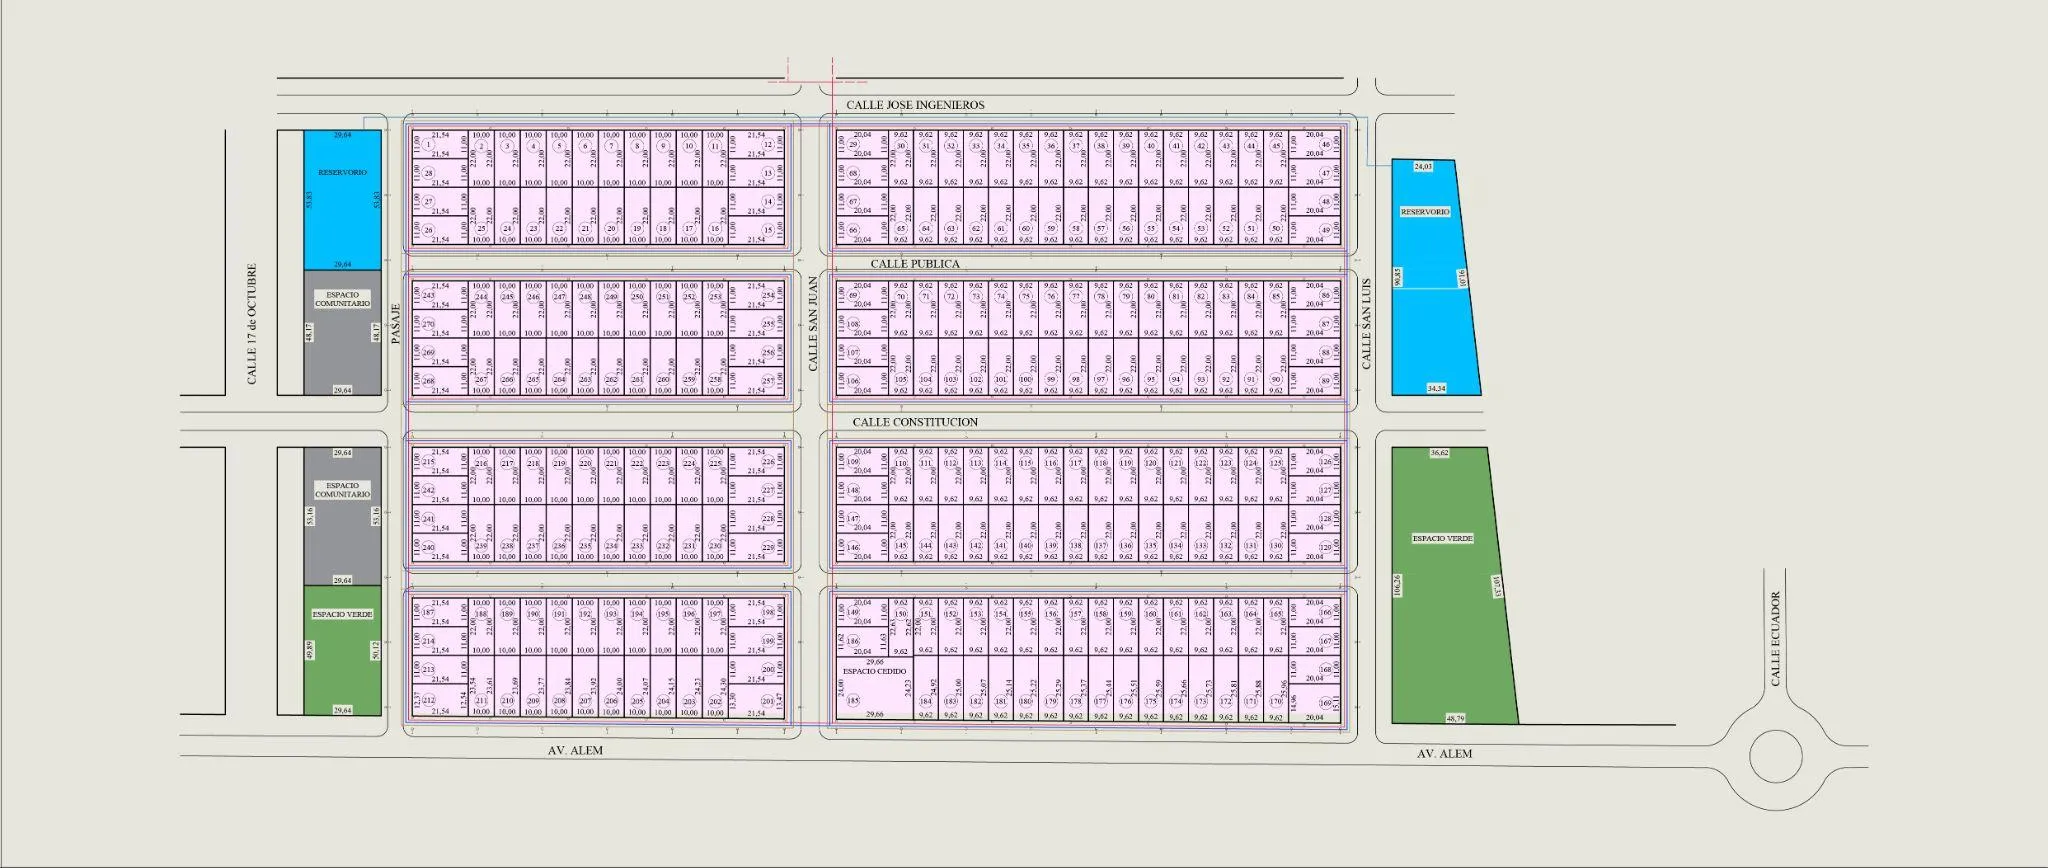
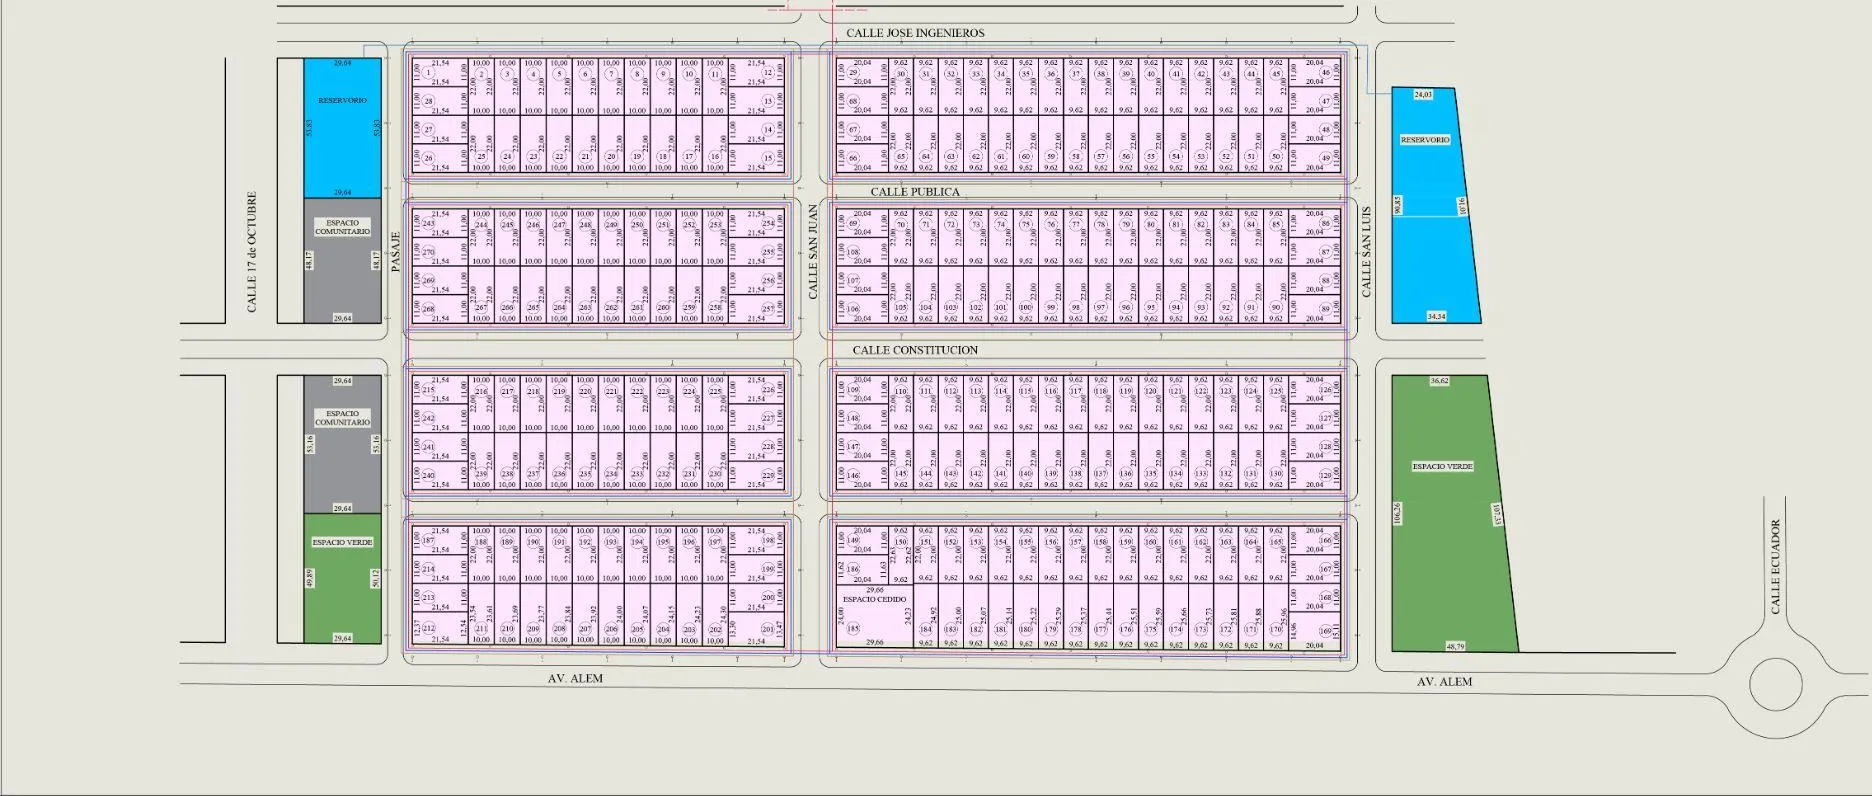
Agrandar el plano y sumarle vista ampliada
En la sección el plano entra a media pantalla y los números de lote no se
llegan a leer.

- Se recortan los 176 px muertos a la derecha y los 72 de arriba que traía
  el archivo, y se saca el padding del marco: 13% más de dibujo en la
  misma caja.
- Al tocarlo se abre a pantalla completa, con el archivo sin optimizar
  para que no se borronee, y se recorre a dedo en mobile.
- El panel va por portal al body: la sección tiene un ancestro con
  transform que le creaba bloque contenedor y lo dejaba encerrado dentro
  de la tarjeta.
- El bloqueo de scroll va en html y no en body, porque en body el
  navegador clampea la posición a 0 y al cerrar se volvía al inicio.

diff --git a/src/components/Mapa.tsx b/src/components/Mapa.tsx
@@ -2,6 +2,7 @@
 
 import { useEffect, useRef, useState } from "react";
 import Image from "next/image";
+import { PlanoAmpliado } from "./PlanoAmpliado";
 import { ubicacion, proyecto } from "@/content/site";
 
 /* eslint-disable @typescript-eslint/no-explicit-any */
@@ -64,13 +65,14 @@ const marco =
   "relative overflow-hidden rounded-3xl bg-verde/10 transition-[aspect-ratio] duration-300";
 /** El plano es mucho más apaisado que el mapa: si lo metemos en 4:3 queda
     diminuto y con dos franjas vacías. El marco toma la proporción de la vista. */
-const PROPORCION = { zona: "4 / 3", predio: "2048 / 868" } as const;
+const PROPORCION = { zona: "4 / 3", predio: "1872 / 796" } as const;
 
 export function Mapa() {
   const contenedor = useRef<HTMLDivElement>(null);
   const mapa = useRef<any>(null);
   const [vista, setVista] = useState<"zona" | "predio">("zona");
   const [error, setError] = useState(false);
+  const [ampliado, setAmpliado] = useState(false);
 
   useEffect(() => {
     if (!CLAVE || !contenedor.current) return;
@@ -124,10 +126,17 @@ export function Mapa() {
   if (!CLAVE || error) {
     return (
       <div>
-        <div className={marco} style={{ aspectRatio: PROPORCION.predio }}>
+        <button
+          type="button"
+          onClick={() => setAmpliado(true)}
+          className={`${marco} block w-full cursor-zoom-in`}
+          style={{ aspectRatio: PROPORCION.predio }}
+          aria-label="Ampliar el plano de mensura"
+        >
           <Predio />
-        </div>
-        <PieDePlano />
+        </button>
+        <PieDePlano onAmpliar={() => setAmpliado(true)} />
+        {ampliado && <PlanoAmpliado onCerrar={() => setAmpliado(false)} />}
       </div>
     );
   }
@@ -149,7 +158,15 @@ export function Mapa() {
           }`}
           aria-hidden={vista !== "predio"}
         >
-          <Predio />
+          <button
+            type="button"
+            onClick={() => setAmpliado(true)}
+            className="block h-full w-full cursor-zoom-in"
+            aria-label="Ampliar el plano de mensura"
+            tabIndex={vista === "predio" ? 0 : -1}
+          >
+            <Predio />
+          </button>
         </div>
 
         <div className="absolute top-4 left-4 z-10 flex rounded-full bg-crema/95 p-1 shadow-sm backdrop-blur">
@@ -173,7 +190,12 @@ export function Mapa() {
           ))}
         </div>
       </div>
-      {vista === "predio" ? <PieDePlano /> : <Aclaracion />}
+      {vista === "predio" ? (
+        <PieDePlano onAmpliar={() => setAmpliado(true)} />
+      ) : (
+        <Aclaracion />
+      )}
+      {ampliado && <PlanoAmpliado onCerrar={() => setAmpliado(false)} />}
     </div>
   );
 }
@@ -184,12 +206,12 @@ export function Mapa() {
  */
 function Predio() {
   return (
-    <div className="flex h-full w-full items-center justify-center bg-crema p-3">
+    <div className="flex h-full w-full items-center justify-center bg-crema">
       <Image
         src="/img/plano-loteo.webp"
         alt={`Plano de mensura de La Ribera con los 269 lotes, en ${proyecto.ubicacion}`}
-        width={2048}
-        height={868}
+        width={1872}
+        height={796}
         sizes="(min-width: 1024px) 50vw, 100vw"
         className="h-auto w-full object-contain"
       />
@@ -197,18 +219,17 @@ function Predio() {
   );
 }
 
-function PieDePlano() {
+function PieDePlano({ onAmpliar }: { onAmpliar: () => void }) {
   return (
     <p className="mt-3 flex flex-wrap items-baseline gap-x-3 gap-y-1 text-xs text-verde/55">
       <span>Plano de mensura · 269 lotes de 211 a 240 m²</span>
-      <a
-        href="/img/plano-loteo.webp"
-        target="_blank"
-        rel="noopener noreferrer"
+      <button
+        type="button"
+        onClick={onAmpliar}
         className="font-bold text-naranja-600 underline underline-offset-2"
       >
-        Ver plano completo
-      </a>
+        Ampliar plano
+      </button>
     </p>
   );
 }

diff --git a/src/components/PlanoAmpliado.tsx b/src/components/PlanoAmpliado.tsx
@@ -1,0 +1,81 @@
+"use client";
+
+import Image from "next/image";
+import { useEffect } from "react";
+import { createPortal } from "react-dom";
+
+/**
+ * El plano a pantalla completa. En la sección entra a la mitad del ancho y los
+ * números de lote no se leen; acá se puede recorrer y hacer zoom.
+ */
+export function PlanoAmpliado({ onCerrar }: { onCerrar: () => void }) {
+  useEffect(() => {
+    const alTeclear = (e: KeyboardEvent) => e.key === "Escape" && onCerrar();
+    window.addEventListener("keydown", alTeclear);
+
+    // El bloqueo va en <html> y no en <body>: en body el navegador clampea el
+    // scroll a 0 y al cerrar el visitante aparecía arriba de todo.
+    const raiz = document.documentElement;
+    const previo = raiz.style.overflow;
+    raiz.style.overflow = "hidden";
+
+    return () => {
+      window.removeEventListener("keydown", alTeclear);
+      raiz.style.overflow = previo;
+    };
+  }, [onCerrar]);
+
+  // Va por portal al body: la sección de ubicación tiene un ancestro con
+  // transform, que le crea bloque contenedor a los position:fixed y dejaba el
+  // panel encerrado dentro de la tarjeta.
+  return createPortal(
+    <div
+      role="dialog"
+      aria-modal="true"
+      aria-label="Plano de mensura de La Ribera"
+      className="fixed inset-0 z-[60] flex flex-col bg-verde-900/95 backdrop-blur"
+    >
+      <div className="flex shrink-0 items-center justify-between gap-4 px-5 py-4 text-crema md:px-8">
+        <p className="text-xs md:text-sm">
+          <span className="font-bold">Plano de mensura</span>
+          <span className="text-crema/60"> · 269 lotes de 211 a 240 m²</span>
+        </p>
+        <button
+          type="button"
+          onClick={onCerrar}
+          className="inline-flex items-center gap-2 rounded-full border-2 border-crema/25 px-4 py-2 text-xs font-bold transition-colors hover:border-crema"
+        >
+          Cerrar
+          <svg viewBox="0 0 24 24" className="size-3.5" fill="none" aria-hidden>
+            <path
+              d="M6 6l12 12M18 6L6 18"
+              stroke="currentColor"
+              strokeWidth="2.5"
+              strokeLinecap="round"
+            />
+          </svg>
+        </button>
+      </div>
+
+      {/* En mobile el plano se sale del ancho a propósito: se recorre a dedo. */}
+      <div className="flex grow items-center overflow-auto overscroll-contain px-3 pb-5 md:px-8 md:pb-8">
+        <Image
+          src="/img/plano-loteo.webp"
+          alt="Plano de mensura de La Ribera con los 269 lotes numerados"
+          width={1872}
+          height={796}
+          // Sin optimizar: es un plano técnico y queremos el archivo entero,
+          // no una versión reescalada que borronea los números de lote.
+          unoptimized
+          className="h-auto w-[220vw] max-w-none rounded-xl bg-crema sm:w-[140vw] lg:w-full"
+        />
+      </div>
+
+      <p className="shrink-0 px-5 pb-5 text-xs text-crema/50 md:px-8">
+        Deslizá para recorrerlo. Las medidas del plano son las de mensura y pueden
+        ajustarse en la escrituración.
+      </p>
+    </div>,
+    document.body,
+  );
+}
